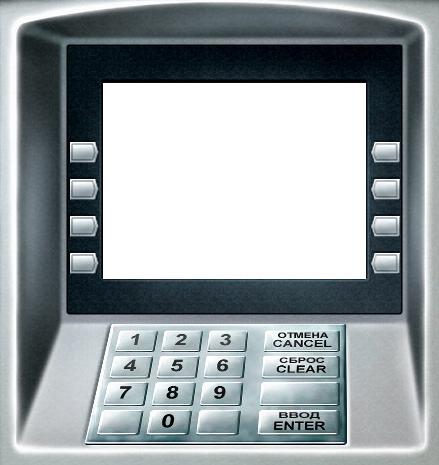
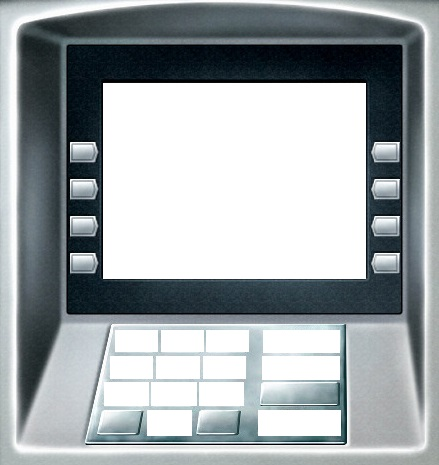
Add images

Changed region(s): [[0.2369, 0.6925, 0.7995, 0.9634], [0.5923, 0.8731, 0.7995, 0.9634]]

diff --git a/UI/MainWindow.xaml b/UI/MainWindow.xaml
@@ -1,12 +1,12 @@
 <Window x:Class="KMA.MOOP.ATM.UI.MainWindow"
-			xmlns="http://schemas.microsoft.com/winfx/2006/xaml/presentation"
-			xmlns:x="http://schemas.microsoft.com/winfx/2006/xaml"
-			xmlns:d="http://schemas.microsoft.com/expression/blend/2008"
-			xmlns:mc="http://schemas.openxmlformats.org/markup-compatibility/2006"
-			xmlns:fa="http://schemas.fontawesome.io/icons/"
-			xmlns:local="clr-namespace:KMA.MOOP.ATM.UI"
-			mc:Ignorable="d"
-			Title="MainWindow" Height="720" Width="640">
+        xmlns="http://schemas.microsoft.com/winfx/2006/xaml/presentation"
+        xmlns:x="http://schemas.microsoft.com/winfx/2006/xaml"
+        xmlns:d="http://schemas.microsoft.com/expression/blend/2008"
+        xmlns:mc="http://schemas.openxmlformats.org/markup-compatibility/2006"
+        xmlns:fa="http://schemas.fontawesome.io/icons/"
+        xmlns:local="clr-namespace:KMA.MOOP.ATM.UI"
+        mc:Ignorable="d"
+        Title="MainWindow" Height="720" Width="640">
     <Grid>
         <Grid.ColumnDefinitions>
             <ColumnDefinition Width="*"></ColumnDefinition>
@@ -23,24 +23,53 @@
 
         <ContentControl Name="_contentControl" Grid.Column="1" Panel.ZIndex="6" Grid.Row="1" Width="380" Height="280"  Margin="150,133,107,282" IsEnabled="{Binding IsControlEnabled, Mode=OneWay, UpdateSourceTrigger=PropertyChanged}"></ContentControl>
         <fa:ImageAwesome Name="_loader" Grid.Column="1" Grid.Row="1" Panel.ZIndex="6" Icon="Refresh" Width="50" Height="50" Spin="True" Visibility="{Binding LoaderVisibility, Mode=OneWay, UpdateSourceTrigger=PropertyChanged}" Margin="318,264,272,386"></fa:ImageAwesome>
-        <Button Grid.Row="1" Grid.Column="1" Panel.ZIndex="10" Content="" Width="35" Height="25" Command="{Binding Button11Command}"  Margin="0,0,400,235"/>
-        <Button Grid.Row="1" Grid.Column="1" Panel.ZIndex="10" Content="" Width="35" Height="25" Command="{Binding Button12Command}" Margin="0,0,400,127"/>
-        <Button Grid.Row="1" Grid.Column="1" Panel.ZIndex="10" Content="" Width="35" Height="25" Command="{Binding Button13Command}" Margin="0,0,400,20"/>
-        <Button Grid.Row="1" Grid.Column="1" Panel.ZIndex="10" Content="" Width="35" Height="25" Command="{Binding Button21Command}" Margin="490,0,0,235"/>
-        <Button Grid.Row="1" Grid.Column="1" Panel.ZIndex="10" Content="" Width="35" Height="25"  Command="{Binding Button22Command}" Margin="490,0,0,127"/>
-        <Button Grid.Row="1" Grid.Column="1" Panel.ZIndex="10" Content="" Width="35" Height="25" Command="{Binding Button23Command}" Margin="490,0,0,20"/>
-        <Button Grid.Row="1" Grid.Column="1" Panel.ZIndex="10" Content="1" Width="55" Height="30" Command="{Binding Press1Command}" Margin="0,310,245,0"/>
-        <Button Grid.Row="1" Grid.Column="1" Panel.ZIndex="10" Content="2" Width="55" Height="30" Command="{Binding Press2Command}" Margin="0,310,110,0"/>
-        <Button Grid.Row="1" Grid.Column="1" Panel.ZIndex="10" Content="3" Width="55" Height="30" Command="{Binding Press3Command}" Margin="20,310,0,0"/>
-        <Button Grid.Row="1" Grid.Column="1" Panel.ZIndex="10" Content="4" Width="55" Height="30" Command="{Binding Press4Command}"  Margin="0,390,260,0"/>
-        <Button Grid.Row="1" Grid.Column="1" Panel.ZIndex="10" Content="5" Width="55" Height="30" Command="{Binding Press5Command}" Margin="0,390,125,0"/>
-        <Button Grid.Row="1" Grid.Column="1" Panel.ZIndex="10" Content="6" Width="55" Height="30" Command="{Binding Press6Command}" Margin="10,390,0,0"/>
-        <Button Grid.Row="1" Grid.Column="1" Panel.ZIndex="10" Content="7" Width="55" Height="30" Command="{Binding Press7Command}" Margin="0,470,275,0"/>
-        <Button Grid.Row="1" Grid.Column="1" Panel.ZIndex="10" Content="8" Width="55" Height="30" Command="{Binding Press8Command}" Margin="0,470,135,0"/>
-        <Button Grid.Row="1" Grid.Column="1" Panel.ZIndex="10" Content="9" Width="55" Height="30" Command="{Binding Press9Command}" Margin="0,470,0,0"/>
-        <Button Grid.Row="1" Grid.Column="1" Panel.ZIndex="10" Content="0" Width="55" Height="30" Command="{Binding Press0Command}" Margin="0,550,150,0"/>
-        <Button Grid.Row="1" Grid.Column="1" Panel.ZIndex="10" Content="Cancel" Width="110" Height="30" Command="{Binding CancelCommand}" Margin="235,310,0,0"/>
-        <Button Grid.Row="1" Grid.Column="1" Panel.ZIndex="10" Content="Clear" Width="110" Height="30" Command="{Binding ClearCommand}" Margin="235,390,0,0"/>
-        <Button Grid.Row="1" Grid.Column="1" Content="Enter" Width="110" Panel.ZIndex="10" Height="30" Command="{Binding EnterCommand}" Margin="230,550,0,0"/>
+        <Button Grid.Row="1" Grid.Column="1" Panel.ZIndex="10" Content="" Width="35" Height="25" Margin="0,0,400,235"/>
+        <Button Grid.Row="1" Grid.Column="1" Panel.ZIndex="10" Content="" Width="35" Height="25" Margin="0,0,400,127"/>
+        <Button Grid.Row="1" Grid.Column="1" Panel.ZIndex="10" Content="" Width="35" Height="25" Margin="0,0,400,20"/>
+        <Button Grid.Row="1" Grid.Column="1" Panel.ZIndex="10" Content="" Width="35" Height="25" Margin="490,0,0,235"/>
+        <Button Grid.Row="1" Grid.Column="1" Panel.ZIndex="10" Content="" Width="35" Height="25" Margin="490,0,0,127"/>
+        <Button Grid.Row="1" Grid.Column="1" Panel.ZIndex="10" Content="" Width="35" Height="25" Margin="490,0,0,20"/>
+        <Button Grid.Row="1" Grid.Column="1" Panel.ZIndex="10" Content="" Width="35" Height="25" Margin="103,382,502,293"/>
+        <Button Grid.Row="1" Grid.Column="1" Panel.ZIndex="10" Content="" Width="35" Height="25" Margin="548,382,58,293"/>
+
+        <Button Grid.Row="1"  Grid.Column="1" BorderThickness="0" Panel.ZIndex="10" Width="62" Height="32" Margin="0,316,242,0">
+            <Image Source="Resource/1.jpg"/>
+        </Button>
+        <Button Grid.Row="1" Grid.Column="1" Panel.ZIndex="10" BorderThickness="0" Width="62" Height="32"  Margin="0,316,109,0">
+            <Image Source="Resource/2.jpg"/>
+        </Button>
+        <Button Grid.Row="1" Grid.Column="1" Panel.ZIndex="10" BorderThickness="0" Width="62" Height="32" Margin="23,316,0,0">
+            <Image Source="Resource/3.jpg"/>
+        </Button>
+        <Button Grid.Row="1" Grid.Column="1" Panel.ZIndex="10" BorderThickness="0" Width="63" Height="34"  Margin="0,392,258,0">
+            <Image Source="Resource/4.jpg"/>
+        </Button>
+        <Button Grid.Row="1" Grid.Column="1" Panel.ZIndex="10" BorderThickness="0" Width="63" Height="34" Margin="0,392,121,0">
+            <Image Source="Resource/5.jpg"/>
+        </Button>
+        <Button Grid.Row="1" Grid.Column="1" Panel.ZIndex="10" BorderThickness="0" Width="62" Height="34" Margin="14,392,0,0">
+            <Image Source="Resource/6.jpg"/>
+        </Button>
+        <Button Grid.Row="1" Grid.Column="1" Panel.ZIndex="10" BorderThickness="0" Width="66" Height="36" Margin="3,470,275,0">
+            <Image Source="Resource/7.jpg"/>
+        </Button>
+        <Button Grid.Row="1" Grid.Column="1" Panel.ZIndex="10" BorderThickness="0" Width="66" Height="36" Margin="2,470,135,0">
+            <Image Source="Resource/8.jpg"/>
+        </Button>
+        <Button Grid.Row="1" Grid.Column="1" Panel.ZIndex="10" BorderThickness="0" Width="66" Height="36" Margin="4,470,0,0">
+            <Image Source="Resource/9.jpg"/>
+        </Button>
+        <Button Grid.Row="1" Grid.Column="1" Panel.ZIndex="10" BorderThickness="0" Width="66" Height="38" Margin="0,555,146,0">
+            <Image Source="Resource/0.jpg"/>
+        </Button>
+        <Button Grid.Row="1" Grid.Column="1" Panel.ZIndex="10" BorderThickness="0" Width="113" Height="35" Margin="239,317,0,0">
+            <Image Source="Resource/Cancel.jpg"/>
+        </Button>
+        <Button Grid.Row="1" Grid.Column="1" Panel.ZIndex="10" BorderThickness="0" Width="114" Height="36" Margin="237,396,0,0">
+            <Image Source="Resource/Clear.jpg"/>
+        </Button>
+        <Button Grid.Row="1" Grid.Column="1" BorderThickness="0" Width="122" Panel.ZIndex="10" Height="38" Margin="233,556,0,0">
+            <Image Source="Resource/Enter.jpg"/>
+        </Button>
     </Grid>
 </Window>
